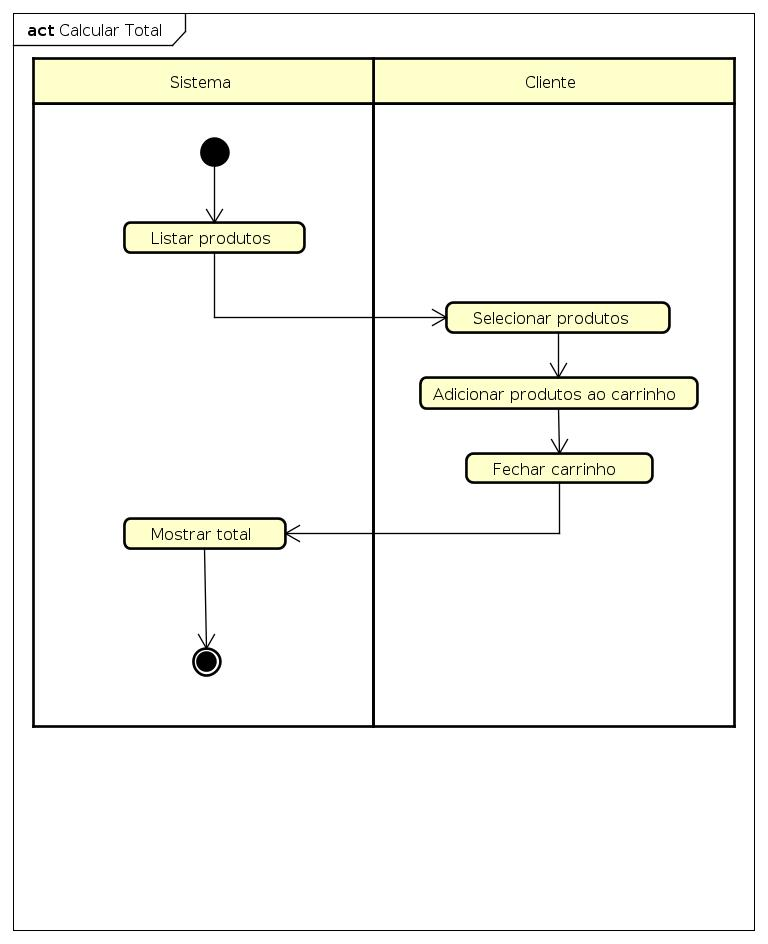
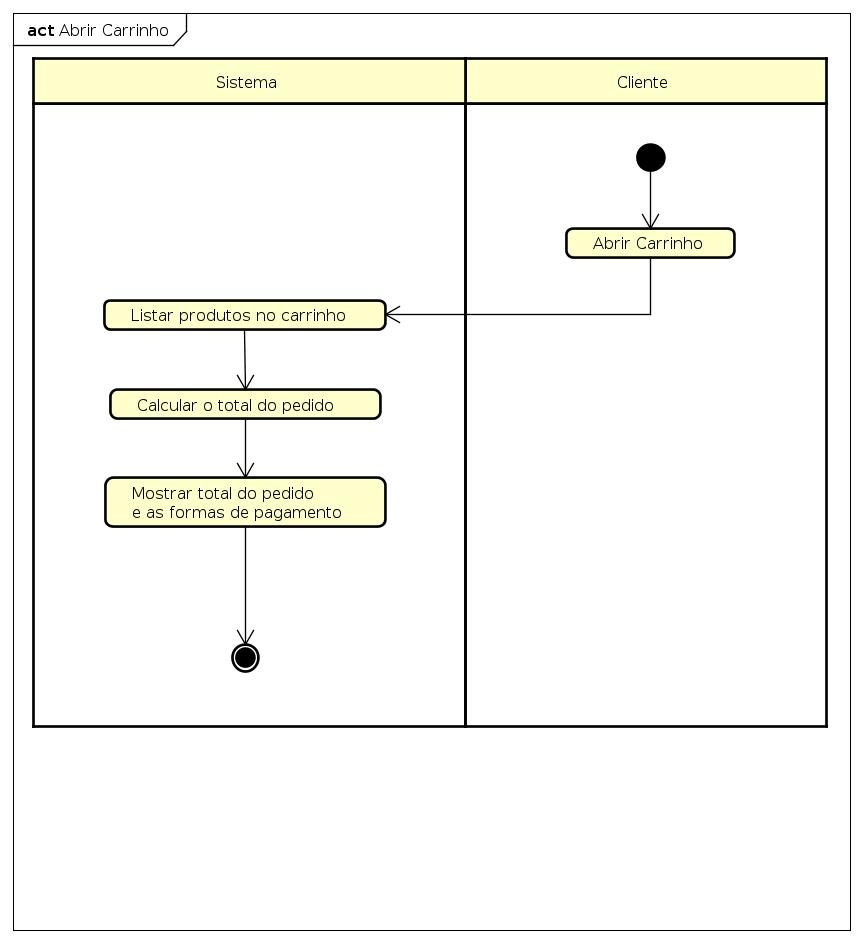
fix: uc011 + uc009

diff --git a/doc/requisitos.html b/doc/requisitos.html
@@ -138,47 +138,47 @@
                         </tr>
                         <tr>
                             <td>RF011</td>
-                            <td>Confirmar_Pedido</td>
-                            <td>8</td>
+                            <td>Abrir_Carrinho</td>
+                            <td>5</td>
                             <td>10</td>
                             <td>11</td>
                             <td>Simples</td>
                         </tr>
                         <tr>
                             <td>RF012</td>
-                            <td>Escolher_Forma_Pagamento</td>
-                            <td>2</td>
+                            <td>Confirmar_Pedido</td>
                             <td>8</td>
+                            <td>10</td>
                             <td>12</td>
-                            <td>Média</td>
-                        </tr>
-                            <tr>
-                            <td>RF013</td>
-                            <td>Confirmar_Pagamento</td>
-                            <td>8</td>
-                            <td>10</td>
-                            <td>13</td>
-                            <td>Média</td>
-                        </tr>
-                        <tr>
-                            <td>RF014</td>
-                            <td>Notificar_Vendedor</td>
-                            <td>8</td>
-                            <td>10</td>
-                            <td>14</td>
                             <td>Simples</td>
                         </tr>
                         <tr>
+                            <td>RF013</td>
+                            <td>Escolher_Forma_Pagamento</td>
+                            <td>2</td>
+                            <td>8</td>
+                            <td>13</td>
+                            <td>Média</td>
+                        </tr>
+                            <tr>
+                            <td>RF014</td>
+                            <td>Confirmar_Pagamento</td>
+                            <td>8</td>
+                            <td>10</td>
+                            <td>14</td>
+                            <td>Média</td>
+                        </tr>
+                        <tr>
                             <td>RF015</td>
-                            <td>Confirmar_Entrega</td>
+                            <td>Notificar_Vendedor</td>
                             <td>8</td>
-                            <td>8</td>
+                            <td>10</td>
                             <td>15</td>
                             <td>Simples</td>
                         </tr>
                         <tr>
                             <td>RF016</td>
-                            <td>Avaliar_Pedido</td>
+                            <td>Confirmar_Entrega</td>
                             <td>8</td>
                             <td>8</td>
                             <td>16</td>
@@ -186,31 +186,31 @@
                         </tr>
                         <tr>
                             <td>RF017</td>
-                            <td>Mostrar_Histórico</td>
-                            <td>5</td>
-                            <td>7</td>
+                            <td>Avaliar_Pedido</td>
+                            <td>8</td>
+                            <td>8</td>
                             <td>17</td>
                             <td>Simples</td>
                         </tr>
                         <tr>
                             <td>RF018</td>
-                            <td>Cadastrar_Foto_Produto</td>
-                            <td>3</td>
+                            <td>Mostrar_Histórico</td>
+                            <td>5</td>
                             <td>7</td>
                             <td>18</td>
                             <td>Simples</td>
                         </tr>
                         <tr>
                             <td>RF019</td>
-                            <td>Editar_Perfil</td>
-                            <td>2</td>
-                            <td>6</td>
+                            <td>Cadastrar_Foto_Produto</td>
+                            <td>3</td>
+                            <td>7</td>
                             <td>19</td>
                             <td>Simples</td>
                         </tr>
                         <tr>
                             <td>RF020</td>
-                            <td>Denunciar_Usuário</td>
+                            <td>Editar_Perfil</td>
                             <td>2</td>
                             <td>6</td>
                             <td>20</td>
@@ -218,10 +218,18 @@
                         </tr>
                         <tr>
                             <td>RF021</td>
+                            <td>Denunciar_Usuário</td>
+                            <td>2</td>
+                            <td>6</td>
+                            <td>21</td>
+                            <td>Simples</td>
+                        </tr>
+                        <tr>
+                            <td>RF022</td>
                             <td>Cancelar_Pedido</td>
                             <td>4</td>
                             <td>6</td>
-                            <td>21</td>
+                            <td>22</td>
                             <td>Simples</td>
                         </tr>
                     </tbody>
@@ -372,7 +380,7 @@
                     <li><a href="desc_uc/uc008.html">UC008 - Selecionar Produto</a></li>
                     <li><a href="desc_uc/uc009.html">UC009 - Adicionar Item ao Carrinho</a></li>
                     <li><a href="desc_uc/uc010.html">UC010 - Remover Item do Carrinho</a></li>
-                    <li><a href="desc_uc/uc011.html">UC011 - Calcular Total</a></li>
+                    <li><a href="desc_uc/uc011.html">UC011 - Abrir Carrinho</a></li>
                     <li><a href="desc_uc/uc012.html">UC012 - Pesquisar</a></li>
                     <li><a href="desc_uc/uc013.html">UC013 - Confirmar Pedido</a></li>
                     <li><a href="desc_uc/uc014.html">UC014 - Escolher Forma de Pagamento</a></li>

diff --git a/doc/desc_uc/uc011.html b/doc/desc_uc/uc011.html
@@ -2,28 +2,28 @@
 <html lang="en">
 <head>
     <meta charset="UTF-8">
-    <title>UC011 - Calcular Total</title>
+    <title>UC011 - Abrir Carrinho</title>
     <link rel="stylesheet" type="text/css" href="../documentacao_style.css">
 </head>
 <body>
     <p class="no-print">/ <a href="../../index.html">Home</a> / <a href="../documentacao.html">Documentação</a> / <a href="../requisitos.html">Requisitos</a> / UC011</p>
     <div class="doc">
-        <h1>UC011 - Calcular Total</h1>
+        <h1>UC011 - Abrir Carrinho</h1>
         <hr>
         <h2>Objetivo</h2>
-        <p>O sistema deve mostrar o preço total dos itens daquele pedido.</p>
+        <p>O sistema deve mostrar os produtos no carrinho, assim como o sub-total, e o sub-total.</p>
         <h2>Atores</h2>
         <ul>
             <li>Usuário</li>
         </ul>
         <h2>Pré-condições</h2>
         <ul>
-            <li>O ator deve estar logado no sistema. </li>
-            <li>O ator deve selecionar todos os produtor desejados.</li>
+            <li>O ator deve estar logado no sistema.</li>
+            <li>O ator deve ter produtos no seu carrinho.</li>
         </ul>
         <h2>Pós-condições</h2>
         <ul>
-            <li>O preço total dos itens deve ter sido mostrado ao usuário.</li>
+            <li>Os itens no carrinho do ator devem ser listados, cada um com seu respectivo preço, além de mostrar o total e sub-total do pedido.</li>
         </ul>
         <h2>Fluxo Principal</h2>
         <img src="../../img/uc/uc011.jpg" alt="Fluxo_Principal">
